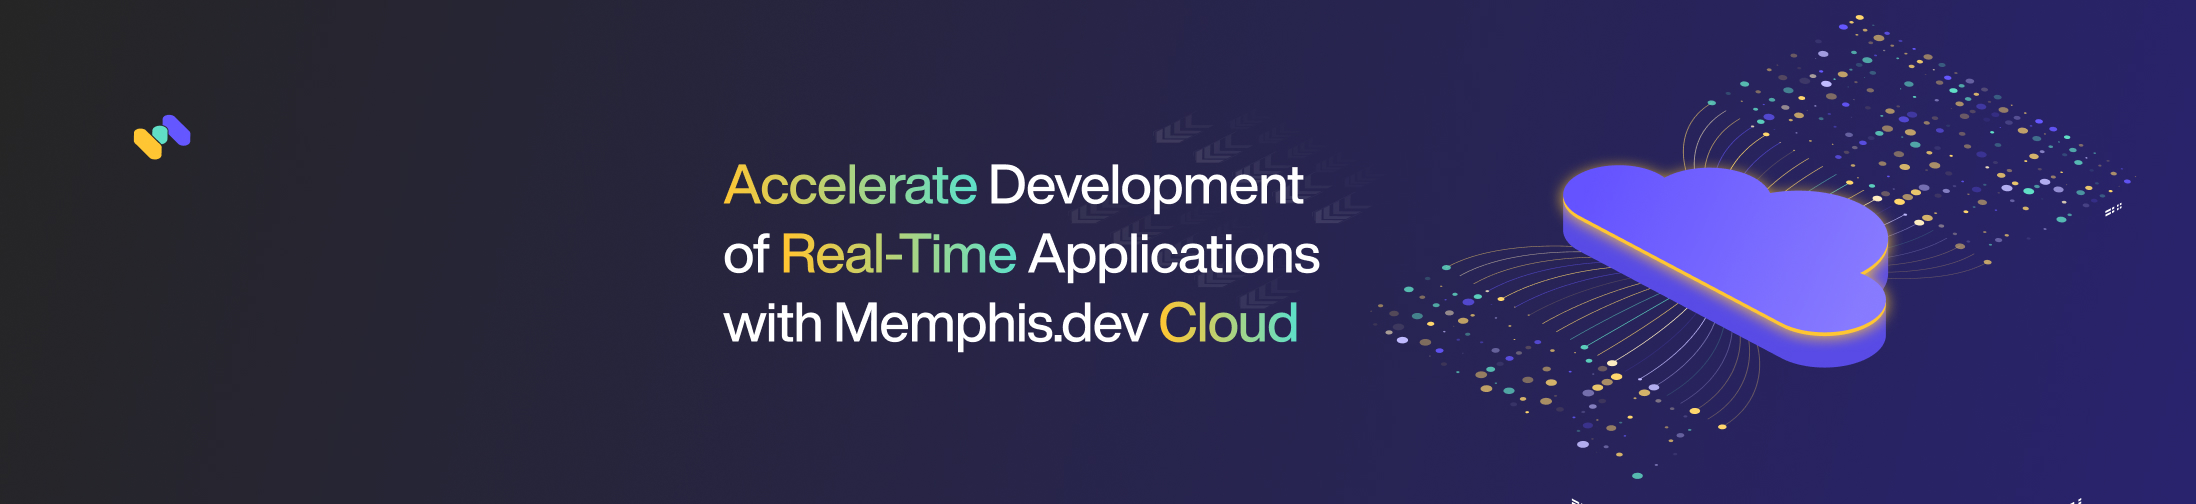
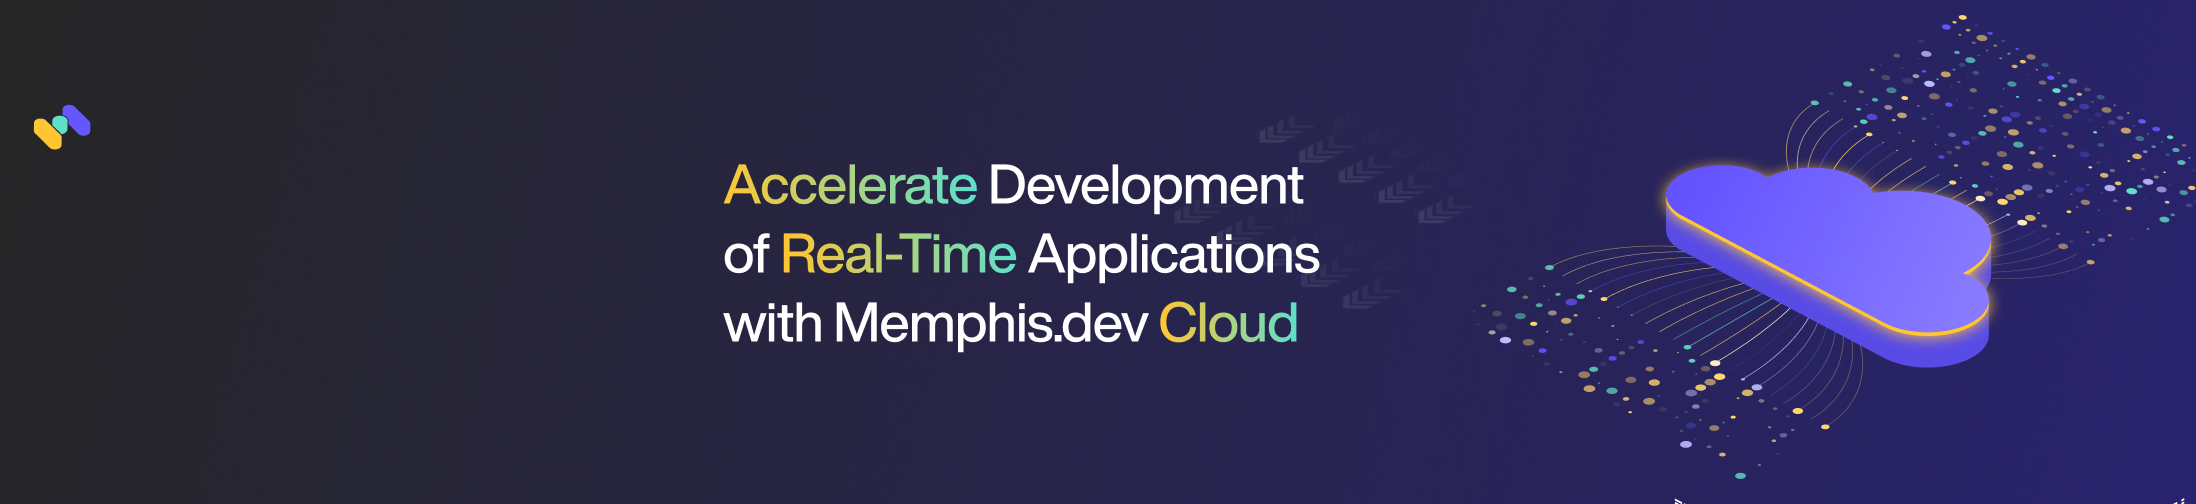
GITBOOK-1175: change request with no subject merged in GitBook

diff --git a/memphis/schemaverse-schema-management/formats/management.md b/memphis/schemaverse-schema-management/formats/management.md
@@ -1,6 +1,10 @@
 # Management
 
-## Attach a schema
+## Create a new Schema
+
+## Detach a Schema
+
+## Enforce a Schema
 
 #### Step 1: Create a new schema
 
@@ -20,7 +24,7 @@ Create a new schema by clicking on "Create from blank"
 {% endtab %}
 {% endtabs %}
 
-#### Step 2: Attach
+#### Step 2: Enforce
 
 {% tabs %}
 {% tab title="GUI" %}

diff --git a/memphis-cloud/getting-started.md b/memphis-cloud/getting-started.md
@@ -1,6 +1,6 @@
 ---
 description: Accelerate Development of Real-Time Applications with Memphis.dev Cloud
-cover: ../.gitbook/assets/Gitbook (2).jpeg
+cover: ../.gitbook/assets/Gitbook (1).jpeg
 coverY: 0
 layout:
   cover:
